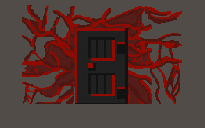
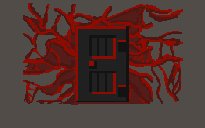
Door animation on E: closed→mid (1s)→open (1s)→escape, uses 3 textures

Changed region(s): [[0.0878, 0.0, 0.9073, 0.8438]]

diff --git a/main.js b/main.js
@@ -444,6 +444,8 @@ const doorTex = new Image();
 doorTex.src = 'assets/images/green_door_closed.png';
 const doorMidTex = new Image();
 doorMidTex.src = 'assets/images/door_mid.png';
+const doorOpenTex = new Image();
+doorOpenTex.src = 'assets/images/door_open.png';
 
 let texWalls = [];
 
@@ -1025,7 +1027,20 @@ function update(dt) {
     player.won = true;
     player.winTime = performance.now();
   }
-  if (spawnDoorState === 'opening') {
+  if (keys['e']) {
+    keys['e'] = false;
+    if (spawnDoorState === 'closed' && Math.hypot(player.x - (spawnDoorX + 0.5), player.y - (spawnDoorY + 0.5)) < 2) {
+      spawnDoorState = 'mid';
+      spawnDoorTimer = 1;
+    }
+  }
+  if (spawnDoorState === 'mid') {
+    spawnDoorTimer -= dt;
+    if (spawnDoorTimer <= 0) {
+      spawnDoorState = 'open';
+      spawnDoorTimer = 1;
+    }
+  } else if (spawnDoorState === 'open') {
     spawnDoorTimer -= dt;
     if (spawnDoorTimer <= 0 && !player.won) {
       player.won = true;
@@ -1359,7 +1374,8 @@ function render(time) {
     if (hit && brightness > 0.005) {
       if (mapX === spawnDoorX && mapY === spawnDoorY) {
         if (spawnDoorState === 'closed' && doorTex.complete && doorTex.naturalWidth > 0) wallTex = doorTex;
-        else if (spawnDoorState === 'opening' && doorMidTex.complete && doorMidTex.naturalWidth > 0) wallTex = doorMidTex;
+        else if (spawnDoorState === 'mid' && doorMidTex.complete && doorMidTex.naturalWidth > 0) wallTex = doorMidTex;
+        else if (spawnDoorState === 'open' && doorOpenTex.complete && doorOpenTex.naturalWidth > 0) wallTex = doorOpenTex;
       } else if (texWalls.some(w => w.x === mapX && w.y === mapY) && doorTex.complete && doorTex.naturalWidth > 0) {
         wallTex = doorTex;
       }
@@ -1798,12 +1814,7 @@ canvas.addEventListener('click', (e) => {
   }
 
   if (mouseLocked) {
-    const dist = Math.hypot(player.x - (spawnDoorX + 0.5), player.y - (spawnDoorY + 0.5));
-    if (spawnDoorState === 'closed' && dist < 2) {
-      spawnDoorState = 'opening';
-      spawnDoorTimer = 3;
-      return;
-    }
+    // (interaction via E key in update)
   } else {
     initAudio();
     if (audioCtx && audioCtx.state === 'suspended') audioCtx.resume();